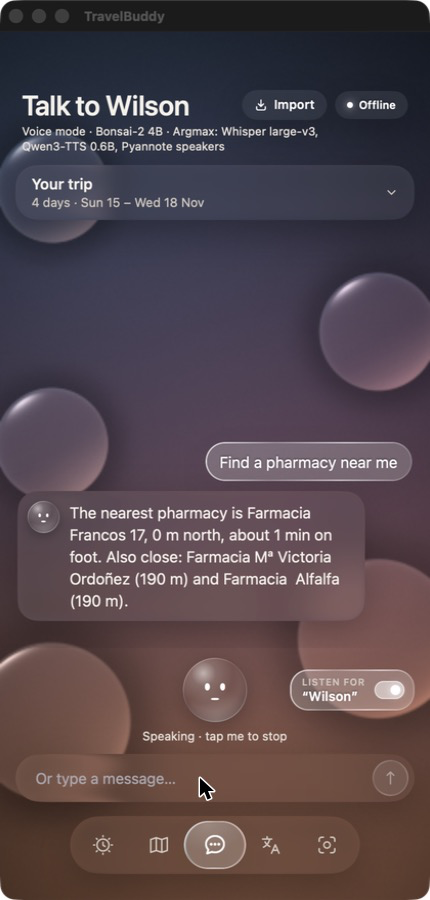
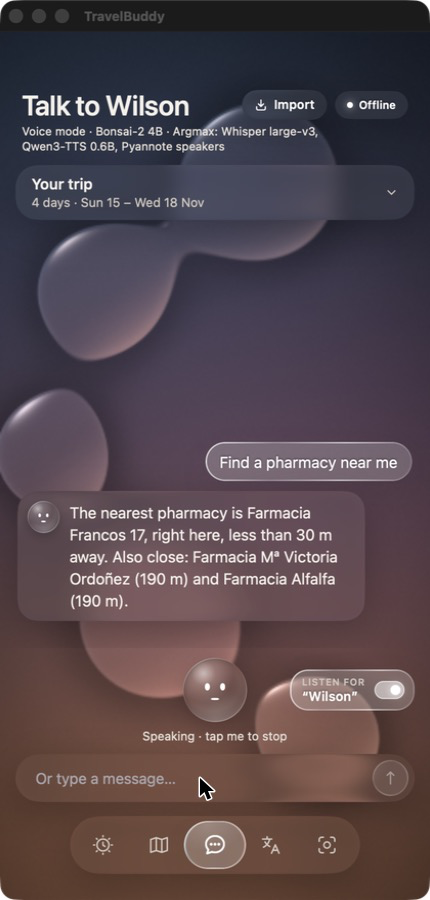
Nearby: "right here" instead of "0 m north"
Under 30 m a distance and a direction mean nothing (seen live: "Farmacia
Francos 17, 0 m north"), so Wilson says "right here, less than 30 m away",
and "right here" for others that close. Names from OpenStreetMap get their
spaces tidied ("Farmacia  Alfalfa"). The README's Chat screenshot shows the
new answer.

diff --git a/app/src/core/nearby.ts b/app/src/core/nearby.ts
@@ -153,7 +153,8 @@ export class NearbyIndex {
 
   constructor(file: NearbyFile) {
     this.bounds = file.bounds;
-    this.places = file.items.map(([name, kind, lat, lon, extra]) => ({ name, kind, point: { lat, lon }, ...(extra ?? {}) }));
+    // Names as OpenStreetMap has them, spaces tidied ("Farmacia  Alfalfa").
+    this.places = file.items.map(([name, kind, lat, lon, extra]) => ({ name: name.replace(/\s+/g, ' ').trim(), kind, point: { lat, lon }, ...(extra ?? {}) }));
   }
 
   /** True when `p` is on (or within about a kilometre of) the area the index covers. */
@@ -211,6 +212,9 @@ function openWords(open: OpenState | undefined): string {
   return open.opensAt ? `, closed now (opens at ${open.opensAt})` : ', closed now';
 }
 
+/** Closer than this, a place is "right here" (GPS and the map's positions are no finer). */
+const HERE_M = 30;
+
 /**
  * Wilson's answer, in code: names, distances and hours come straight from the index, so nothing is
  * made up. Spoken as it is (or given to the model to say warmly, with these facts only).
@@ -226,10 +230,13 @@ export function nearbyAnswer(query: NearbyQuery, results: NearbyResult[], opts: 
   const [first, ...rest] = results;
   const name = nearbyName(first, query.category);
   const lead = first.place.name ? `The nearest ${what} is ${name}` : `The nearest ${what} is`;
-  const where = `${formatDistance(first.meters)} ${first.direction}, about ${first.minutes} min on foot`;
+  // Under ~30 m a distance and direction mean nothing ("0 m north", seen live): it's right here.
+  const where =
+    first.meters < HERE_M ? `right here, less than ${HERE_M} m away` : `${formatDistance(first.meters)} ${first.direction}, about ${first.minutes} min on foot`;
   let text = first.place.name ? `${lead}, ${where}${openWords(first.open)}.` : `${lead} ${where}${openWords(first.open)}.`;
   const named = rest.filter(r => r.place.name);
-  if (named.length) text += ` Also close: ${named.map(r => `${r.place.name} (${formatDistance(r.meters)}${openWords(r.open)})`).join(' and ')}.`;
+  const howFar = (m: number) => (m < HERE_M ? 'right here' : formatDistance(m));
+  if (named.length) text += ` Also close: ${named.map(r => `${r.place.name} (${howFar(r.meters)}${openWords(r.open)})`).join(' and ')}.`;
   if (query.openNow && !first.open) text += " I don't have its opening hours, so I can't promise it's open now.";
   if (query.category.id === 'cinema' || query.category.id === 'theatre') text += ' I have no showtimes offline, so check at the door.';
   return text;

diff --git a/app/src/core/__tests__/nearby.test.ts b/app/src/core/__tests__/nearby.test.ts
@@ -93,4 +93,23 @@ describe('the nearby index', () => {
     const text = nearbyAnswer(now, found, { city: 'Seville', covered: true });
     if (!found[0].open) expect(text).toContain("can't promise it's open now");
   });
+
+  it('says "right here" instead of "0 m north" when you are next to it (seen live)', () => {
+    const q = nearbyQuery('find a pharmacy near me')!;
+    const tiny = new NearbyIndex({
+      source: 'test',
+      builtAt: '2026-11-15',
+      bounds: [-6.02, 37.37, -5.97, 37.41],
+      items: [
+        ['Farmacia Francos 17', 'pharmacy', plazaNueva.lat + 0.0001, plazaNueva.lon],
+        ['Farmacia de la Esquina', 'pharmacy', plazaNueva.lat + 0.0002, plazaNueva.lon],
+        ['Farmacia Lejana', 'pharmacy', plazaNueva.lat + 0.003, plazaNueva.lon],
+      ],
+    });
+    const text = nearbyAnswer(q, tiny.search(q, plazaNueva), { city: 'Seville', covered: true });
+    expect(text).toMatch(/^The nearest pharmacy is Farmacia Francos 17, right here, less than 30 m away\./);
+    expect(text).toContain('Farmacia de la Esquina (right here)');
+    expect(text).toContain('Farmacia Lejana (330 m)');
+    expect(text).not.toMatch(/\b0 m\b/);
+  });
 });

diff --git a/README.md b/README.md
@@ -184,7 +184,7 @@ node scripts/prepare-pack.mjs --itinerary ~/Downloads/seville-trip.ics   # or a 
 
 ```bash
 cd app
-npm test            # Jest: the core logic in Node, plus screen tests (511 tests in 31 suites)
+npm test            # Jest: the core logic in Node, plus screen tests (512 tests in 31 suites)
 npm run typecheck   # tsc --noEmit
 npm run lint        # ESLint
 ```
